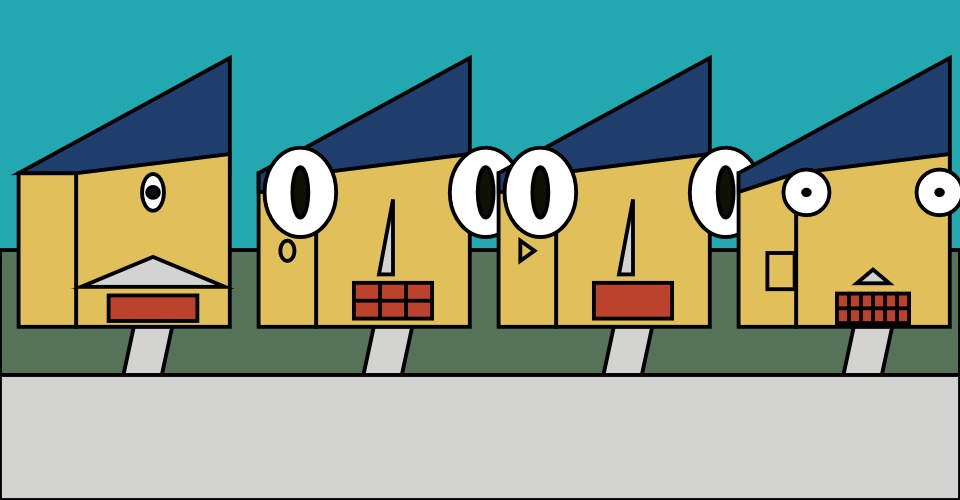
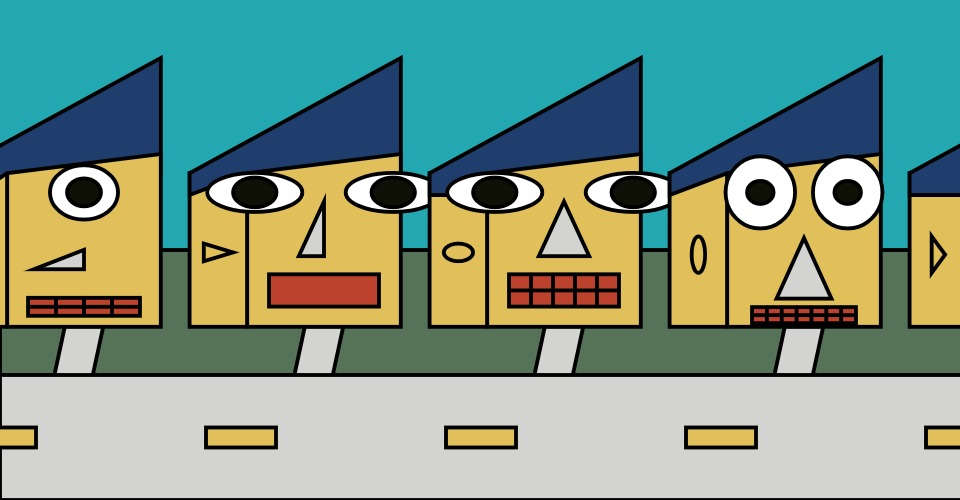
added road lines

diff --git a/arrangement.js b/arrangement.js
@@ -46,6 +46,7 @@ function changeRandomSeed() {
 
 
 function drawPath(bottomOfFaceY){
+  fill(grey);
   strokeWeight(myStrokeWeight);
   let pathWidth=2;
   let pathChangeInX=80;
@@ -96,14 +97,20 @@ function draw () {
     
     faceList[i].faceX-=scrollSpeed;
     pop();
-    fill(grey);
-    strokeWeight(myStrokeWeight*face_scale);
-    rect(0,topOfRoad,width+10,height+5);
+    
     
   }
+  //draw road
+  fill(grey);
+  strokeWeight(myStrokeWeight*face_scale);
+  rect(0,topOfRoad,width+10,height);
+  //draw lines on road
+  rectMode(CENTER);
+  fill(yellow);
+  faceList.forEach((face) => {
+    rect(face.faceX-80,height-(height-topOfRoad)/2,70,20);
+  });
   rectMode(CORNERS);
-    
-    
   if(faceList[0].faceX<=-canvasWidth/4){
     faceList.splice(0,1);
     let face=new Face();

diff --git a/README.md b/README.md
@@ -1,1 +1,1 @@
-I have fixed the bug meaning that the faces had necks whic was me just not setting rectmode in the ear function. I havealso added these paths to the houses. 
+I have added some lines to the road. I think it works as it gives some minimal detail to the raod but the yellow is too brighter colour for this and pulls attention away from the houses. I also think the road itself should be darker. 
